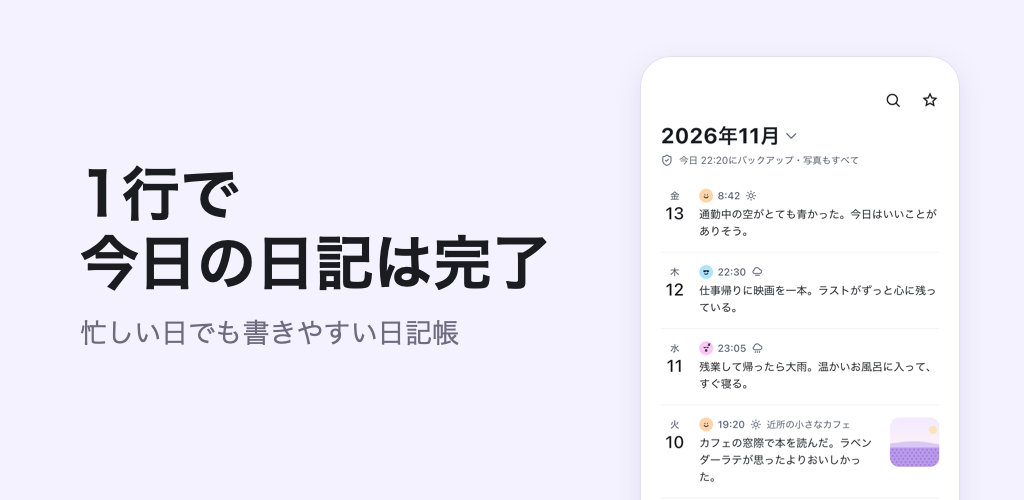
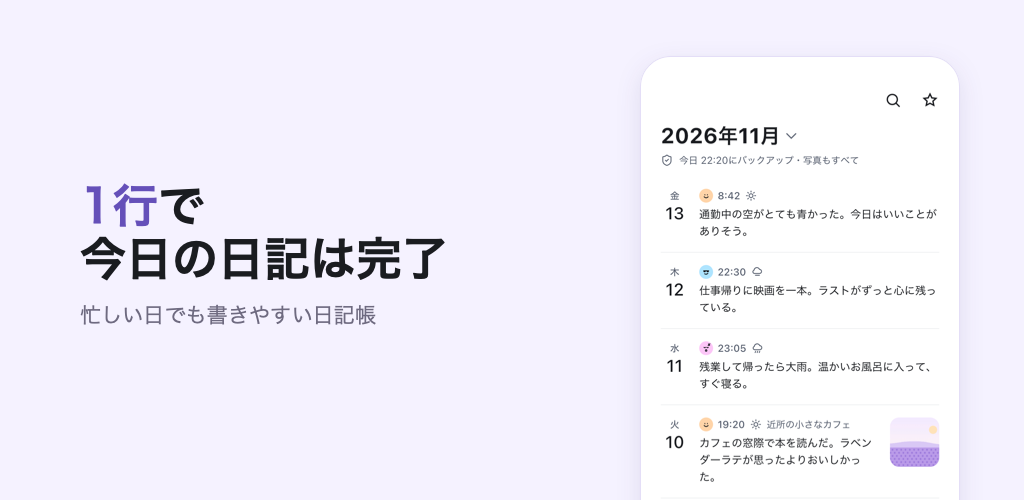
docs(store): 가로 그림 제목에 강조색을 넣고 글자를 줄임
그래픽 이미지, App Store 헤더, 검색 결과 그림의 제목에서 '한 줄'
하나만 브랜드색으로 강조하고, 제목이 화면보다 무거워 보이지 않게
크기를 줄였다. 일본어·영어 검색 그림은 글과 화면 사이를 띄웠다.

Changed region(s): [[0.0625, 0.33, 0.5312, 0.69]]

diff --git a/scripts/store/make_banner.swift b/scripts/store/make_banner.swift
@@ -19,6 +19,9 @@ func color(_ hex: UInt32, _ a: CGFloat = 1) -> NSColor {
     NSColor(srgbRed: CGFloat((hex >> 16) & 255) / 255, green: CGFloat((hex >> 8) & 255) / 255, blue: CGFloat(hex & 255) / 255, alpha: a)
 }
 let bg = color(0xF5F2FF), ink = color(0x1A1C20), sub = color(0x6E6A80), line = color(0xE4DEF7)
+// 강조는 낱말 하나만. 라벤더 브랜드색 중 글자 대비가 되는 진한 단계
+let accent = color(0x6550B9)
+let accentWord = ["ko": "한 줄", "en": "One line", "ja": "1行"]
 let statusCut: CGFloat = 162
 
 let copy: [String: (String, String)] = [
@@ -39,7 +42,11 @@ func attributed(_ s: String, _ px: CGFloat, _ c: NSColor, bold: Bool, align: NST
 
 // 제목과 설명을 한 덩어리로 x, 가운데 y에 그림
 func block(x: CGFloat, centerY: CGFloat, width: CGFloat, title: CGFloat, align: NSTextAlignment) {
-    let t = attributed(copy[lang]!.0, title, ink, bold: true, align: align)
+    let t = NSMutableAttributedString(attributedString: attributed(copy[lang]!.0, title, ink, bold: true, align: align))
+    if let r = copy[lang]!.0.range(of: accentWord[lang]!) {
+        let range = NSRange(r, in: copy[lang]!.0)
+        t.addAttributes([.foregroundColor: accent, .strokeColor: accent], range: range)
+    }
     let s = attributed(copy[lang]!.1, title * 0.46, sub, bold: false, align: align)
     let th = t.boundingRect(with: NSSize(width: width, height: 4000), options: [.usesLineFragmentOrigin]).height
     let sh = s.boundingRect(with: NSSize(width: width, height: 4000), options: [.usesLineFragmentOrigin]).height
@@ -82,17 +89,18 @@ bg.setFill(); NSRect(x: 0, y: 0, width: W, height: H).fill()
 switch mode {
 case "feature":
     // 왼쪽 글, 오른쪽에 아래가 잘린 화면 한 장
-    block(x: 80, centerY: H / 2, width: 520, title: 64, align: .left)
+    block(x: 80, centerY: H / 2, width: 520, title: 50, align: .left)
     phone("home", x: 640, top: 56, width: 320)
 case "header":
     // 안전 영역(1646×661, 가운데)에 글. 넓은 화면에서만 보이는 양옆에 화면
-    block(x: 1097, centerY: 493 + 661 / 2, width: 1646, title: 150, align: .center)
+    block(x: 1097, centerY: 493 + 661 / 2, width: 1646, title: 124, align: .center)
     phone("home", x: 3000, top: 330, width: 720)
     phone("detail", x: 120, top: 330, width: 720)
 case "search":
     // 왼쪽 글, 오른쪽 화면(안전 영역 836~3004 안)
-    block(x: 900, centerY: H / 2, width: 1300, title: 200, align: .left)
-    phone("home", x: 2060, top: 360, width: 900)
+    // 영어는 줄이 길어 두 줄에 들어가게 조금 줄임
+    block(x: 900, centerY: H / 2, width: 1160, title: lang == "en" ? 124 : 150, align: .left)
+    phone("home", x: 2170, top: 380, width: 830)
 default:
     fatalError(mode)
 }

diff --git a/docs/store/listing.md b/docs/store/listing.md
@@ -565,5 +565,5 @@ Plusが登場しました
 영어(원어민 검수 전): One line, and today is done / Keep your day with photos / Your moods on a calendar / Look back on your moods / Make it your color / Back up photos to your own Drive.
 일본어(원어민 검수 전): 1行で今日の日記は完了 / 写真と一緒に残せます / その日の気分がカレンダーに / どんな気分が多かったかふり返れます / 好きな色に変えられます / 写真まで自分のドライブに.
 
-그래픽 이미지·App Store 헤더·검색 결과 그림은 1번 제목과 설명에 목록 화면을 둔다. 헤더는 Apple 안전 영역(가운데 1646×661)에 글만 두고, 넓은 화면에서만 보이는 양옆에 화면을 둔다.
+그래픽 이미지·App Store 헤더·검색 결과 그림은 1번 제목과 설명에 목록 화면을 둔다. 가로 그림은 제목의 낱말 하나("한 줄", "One line", "1行")만 브랜드색 #6550B9로 강조하고, 글자는 화면보다 무겁지 않게 줄였다(사용자 요청 2026-11-24). 헤더는 Apple 안전 영역(가운데 1646×661)에 글만 두고, 넓은 화면에서만 보이는 양옆에 화면을 둔다.
 만드는 법: 폰·태블릿 `swift scripts/store/make_store_screens.swift <캡처> <결과> <언어> <폭> <높이> <앞이름> [tablet]`, 가로 그림 `swift scripts/store/make_banner.swift <캡처> <결과> <언어> feature|header|search`. 캡처는 `docs/store/source/ios/<언어>/`(iPhone 17 Pro)와 `ipad/`(iPad Pro 13" 세로)다.
